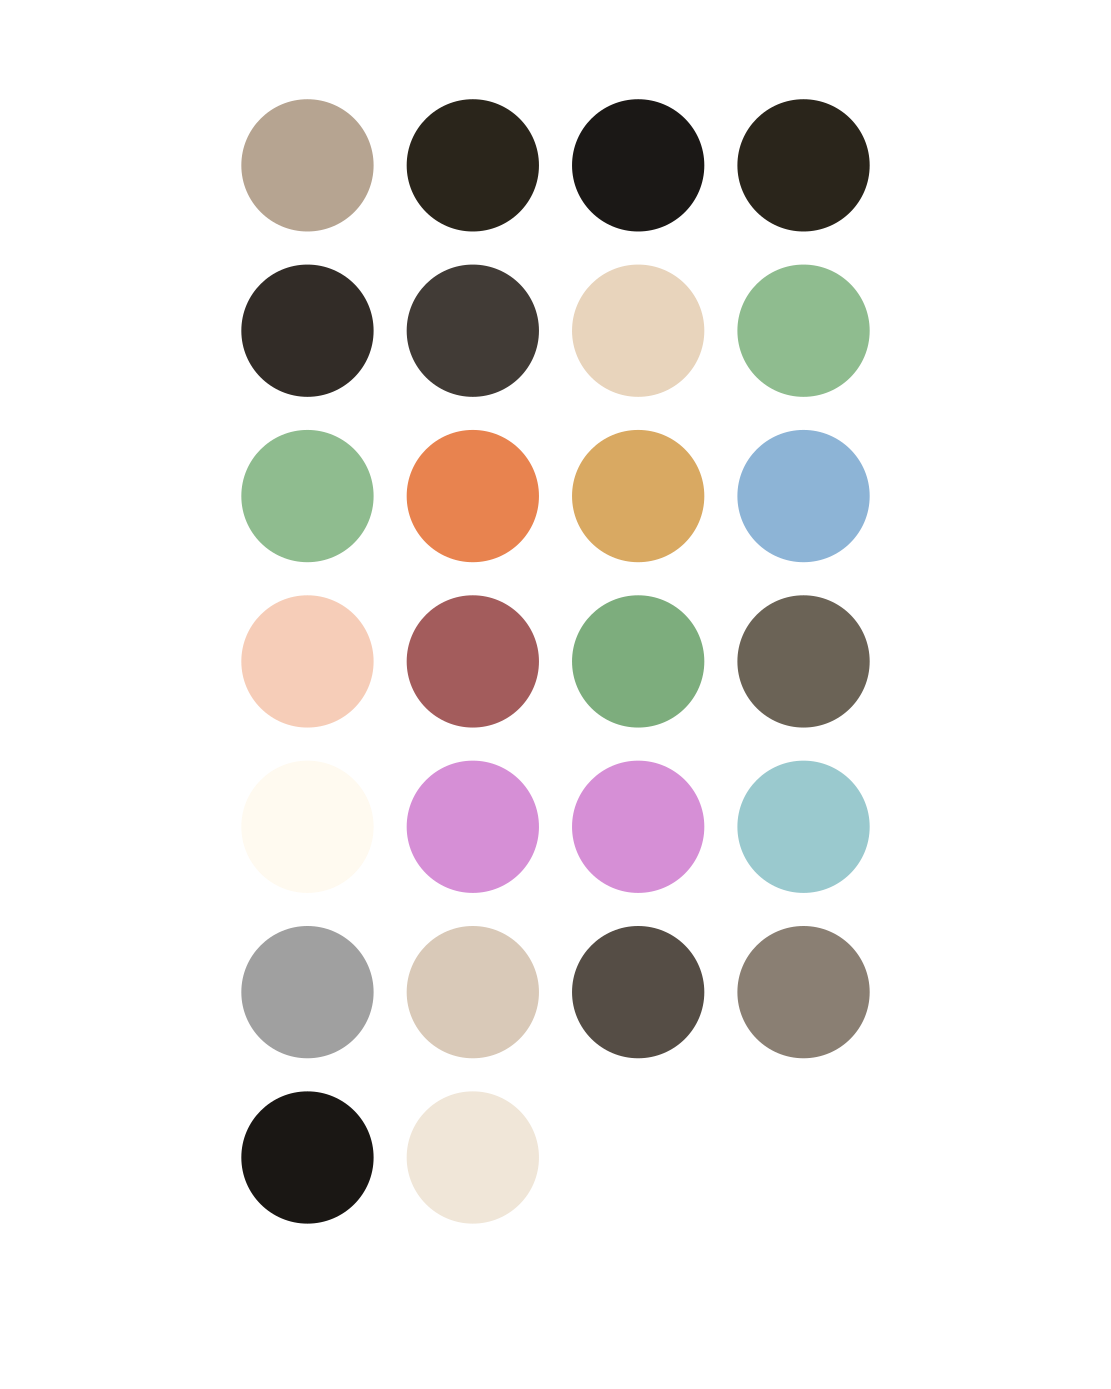
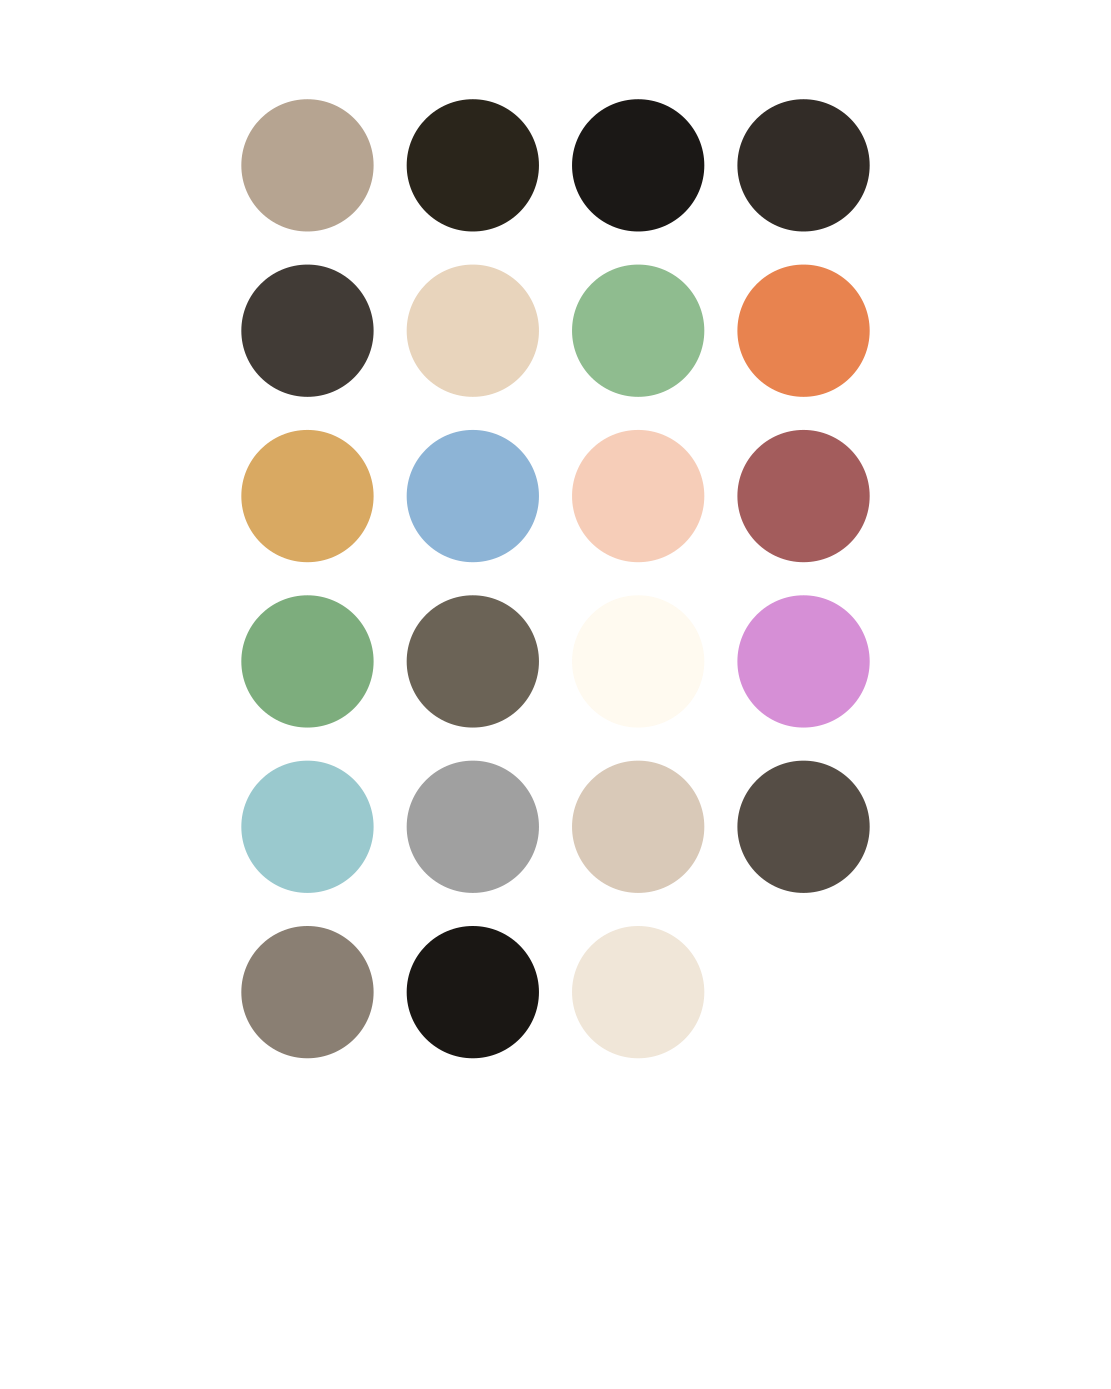
both themes in a good spot

Changed region(s): [[0.3672, 0.1857, 0.7957, 0.8978], [0.2142, 0.3096, 0.3366, 0.8978]]

diff --git a/src/honeycrisp-IIe/theme.ts b/src/honeycrisp-IIe/theme.ts
@@ -49,11 +49,6 @@ export const tang = {
   ...base,
   colors: {
     ...base.colors,
-    activeLine: '#2b261c',
-    background: '#1c1815',
-    elementBackground: '#2b261c',
-    active: '#342e28',
-    border: '#443e38',
     function: '#6dd16d',
     tag: '#6dd16d',
     keyword: '#ff9547',
@@ -86,7 +81,7 @@ export function createSvg({ colors }: Theme) {
       viewBox="0 0 50 ${Math.ceil(Object.keys(colors).length / 4) * 12}"
       xmlns="http://www.w3.org/2000/svg"
     >
-      ${Object.values(colors).map(circle).join('')}
+      ${[...new Set(Object.values(colors))].map(circle).join('')}
     </svg>
   `
 }
@@ -182,7 +177,7 @@ function createTheme({ colors, styles }: Theme, themeName: string) {
       'terminal.ansi.white': colors.white,
       'terminal.ansi.bright_white': colors.white,
       'terminal.ansi.dim_white': colors.text,
-      'link_text.hover': colors.info,
+      'link_text.hover': colors.keyword,
       conflict: colors.danger,
       'conflict.background': colors.background,
       'conflict.border': colors.danger,
@@ -288,12 +283,12 @@ function createTheme({ colors, styles }: Theme, themeName: string) {
           font_weight: null,
         },
         link_text: {
-          color: colors.info,
+          color: colors.keyword,
           font_style: null,
           font_weight: null,
         },
         link_uri: {
-          color: colors.info,
+          color: colors.keyword,
           font_style: null,
           font_weight: null,
         },

diff --git a/src/poimandres-zed/watch.ts b/src/poimandres-zed/watch.ts
@@ -56,7 +56,7 @@ async function generateTheme() {
   console.log(`${ARROW} assets generated`)
 }
 
-const watcher = chokidar.watch('src/poimandres-theme-zed/theme.ts')
+const watcher = chokidar.watch('src/poimandres-zed/theme.ts')
 
 watcher
   .on('add', (path) => {

diff --git a/README.md b/README.md
@@ -1,20 +1,32 @@
-# poimandres-theme-zed
-
-<img src="assets/poimandres-dots.png" alt="poimandres palette preview" width="320" />
+# zed-themes
 
 ![Node version](https://img.shields.io/badge/node-24.11.1-43853d?logo=node.js&logoColor=white)
 
-## Overview
+## poimandres-zed
 
-A faithful and meticulous port of the awesome poimandres VS Code theme for Zed. Some ports exist, but since Zed's syntax highlighting customization is not to the level of VS Code's just yet, some colors in those ports that poimandres uses sparingly are overrepresented in the actual buffer. This project makes the best compromises on syntax colors to offer as consistent colors with VS Code as possible. When decisions needed to be made, the lighter of the two color options was usually chosen for readability.
+<img src="assets/poimandres-dots.png" alt="poimandres palette preview" width="320" />
 
-**Update:** Now there's this one too:
+A faithful and detailed port of the awesome poimandres VS Code theme for Zed.
+
+**Variants:**
+
+- poimandres-zed
+- poimandres-zed noitalics
+- poimandres-zed storm
+- poimandres-zed storm noitalics
 
 ## honeycrisp-IIe
 
 <img src="assets/honeycrisp-IIe-dots.png" alt="honeycrisp IIe palette preview" width="320" />
 
-A mix of inspiration of autumnal colors alongside nostalgic hues of the certain old beige computer we had in the basement. Cues from poimandres' minimalism are still considered, and readability is a main concern.
+A original theme inspired by autumn leaves and the good old beige computer in the basement.
+
+**Variants:**
+
+- honeycrisp-IIe
+- honeycrisp-IIe noitalics
+- honeycrisp-IIe tang (a little more vivid, imagine you drank some Tang)
+- honeycrisp-IIe tang noitalics
 
 ## Installation
 
@@ -26,17 +38,14 @@ This project requires Node 24.11.1 or later (Using Node's new TypeScript support
 ## Commands
 
 - `pnpm run format`: Formats the source files using Prettier.
-- `pnpm run watch`: Watches `theme.ts` and regenerates assets on change.
-- `pnpm run watch:zed`: Watches `theme.ts`, regenerates assets on change, and generates the theme in Zed's theme directory. If you have the theme selected in Zed, you will see theme changes in Zed in real time.
+- `pnpm run poimandres:watch`: Watches `poimandres-zed/theme.ts` and regenerates assets on change.
+- `pnpm run poimandres:watch:zed`: Watches `poimandres-zed/theme.ts`, regenerates assets on change, and generates the theme in Zed's theme directory. If you have the theme selected in Zed, you will see theme changes in Zed in real time.
+- `pnpm run IIe:watch`: Watches `honeycrisp-IIe/theme.ts` and regenerates assets on change.
+- `pnpm run IIe:watch:zed`: Watches `honeycrisp-IIe/theme.ts`, regenerates assets on change, and generates the theme in Zed's theme directory. Select the theme for real time updates.
 
 ## Using the Theme in Zed
 
-Once `pnpm run watch:zed` has copied the files, (or by manually copying `poimandres-zed.json` into `~/.config/zed/themes`) open Zed, use command pallete to select `theme selector: toggle` , and pick the variant you want:
-
-- `poimandres zed`
-- `poimandres zed storm`
-- `poimandres zed noitalics`
-- `poimandres zed noitalics storm`
+Once `pnpm run watch:zed` has copied the files, (or by manually copying files in `themes` into `~/.config/zed/themes`) open Zed, use command pallete to select `theme selector: toggle` , and pick the variant you want.
 
 ## Contributing
 

diff --git a/src/poimandres-zed/README.md b/src/poimandres-zed/README.md
@@ -1,0 +1,5 @@
+# poimandres-theme-zed
+
+<img src="../../assets/poimandres-dots.png" alt="poimandres palette preview" width="320" />
+
+A faithful and meticulous port of the awesome poimandres VS Code theme for Zed. Some ports exist, but since Zed's syntax highlighting customization is not as fine grained as VS Code's as of now, some colors in those ports that poimandres uses sparingly are overrepresented in the actual buffer. This project makes the best compromises on syntax colors to offer as consistent colors with VS Code as possible. When decisions needed to be made, the lighter of the two color options was usually chosen for readability.

diff --git a/src/honeycrisp-IIe/README.md b/src/honeycrisp-IIe/README.md
@@ -1,0 +1,5 @@
+## honeycrisp-IIe
+
+<img src="../../assets/honeycrisp-IIe-dots.png" alt="honeycrisp IIe palette preview" width="320" />
+
+A mix of inspiration of autumnal colors alongside nostalgic hues of the certain old beige computer we had in the basement. Minimalist in design, it keeps a consistent background color with subtle border and accents of colors that evoke autumn leaves and vintage tech.
